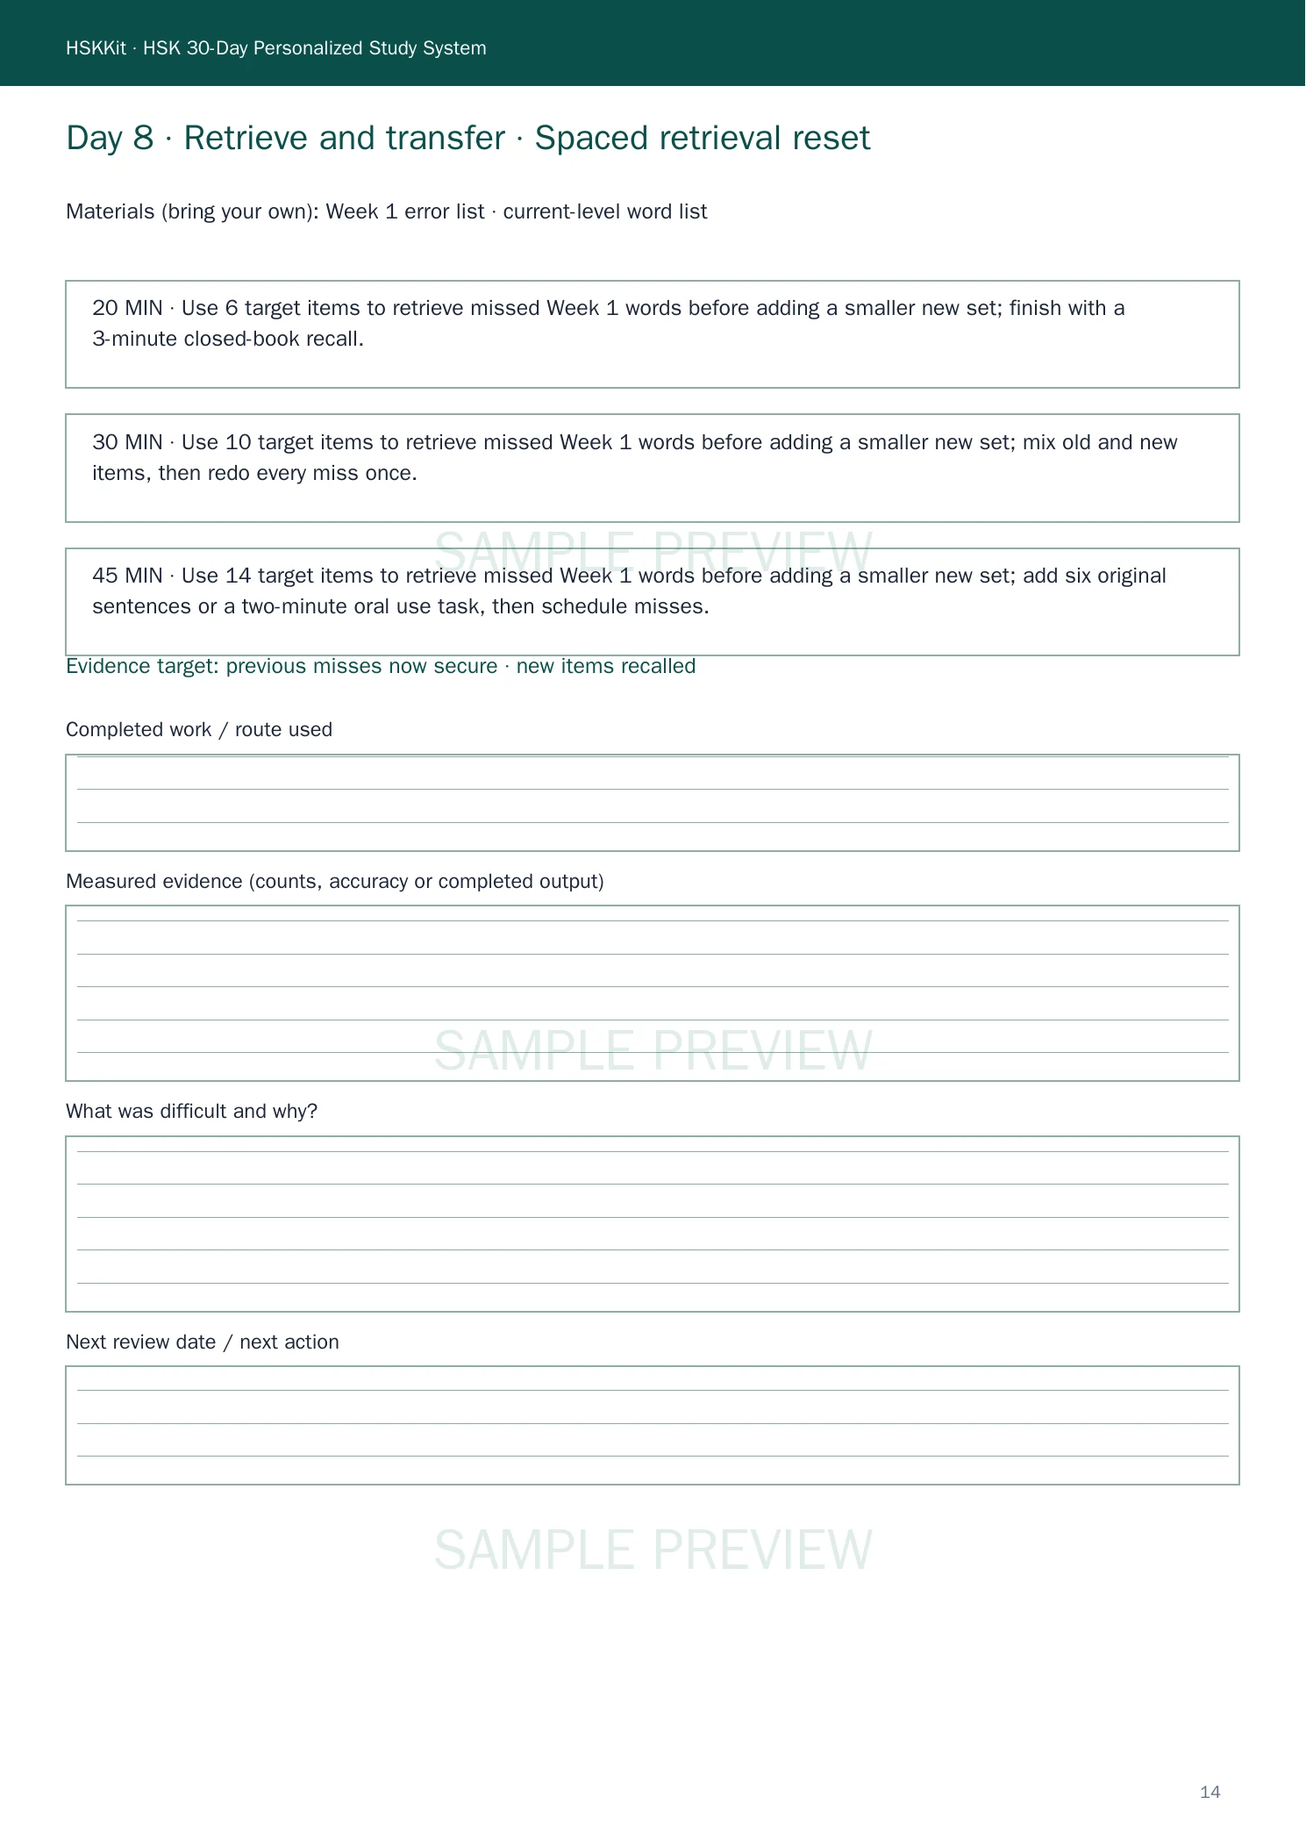
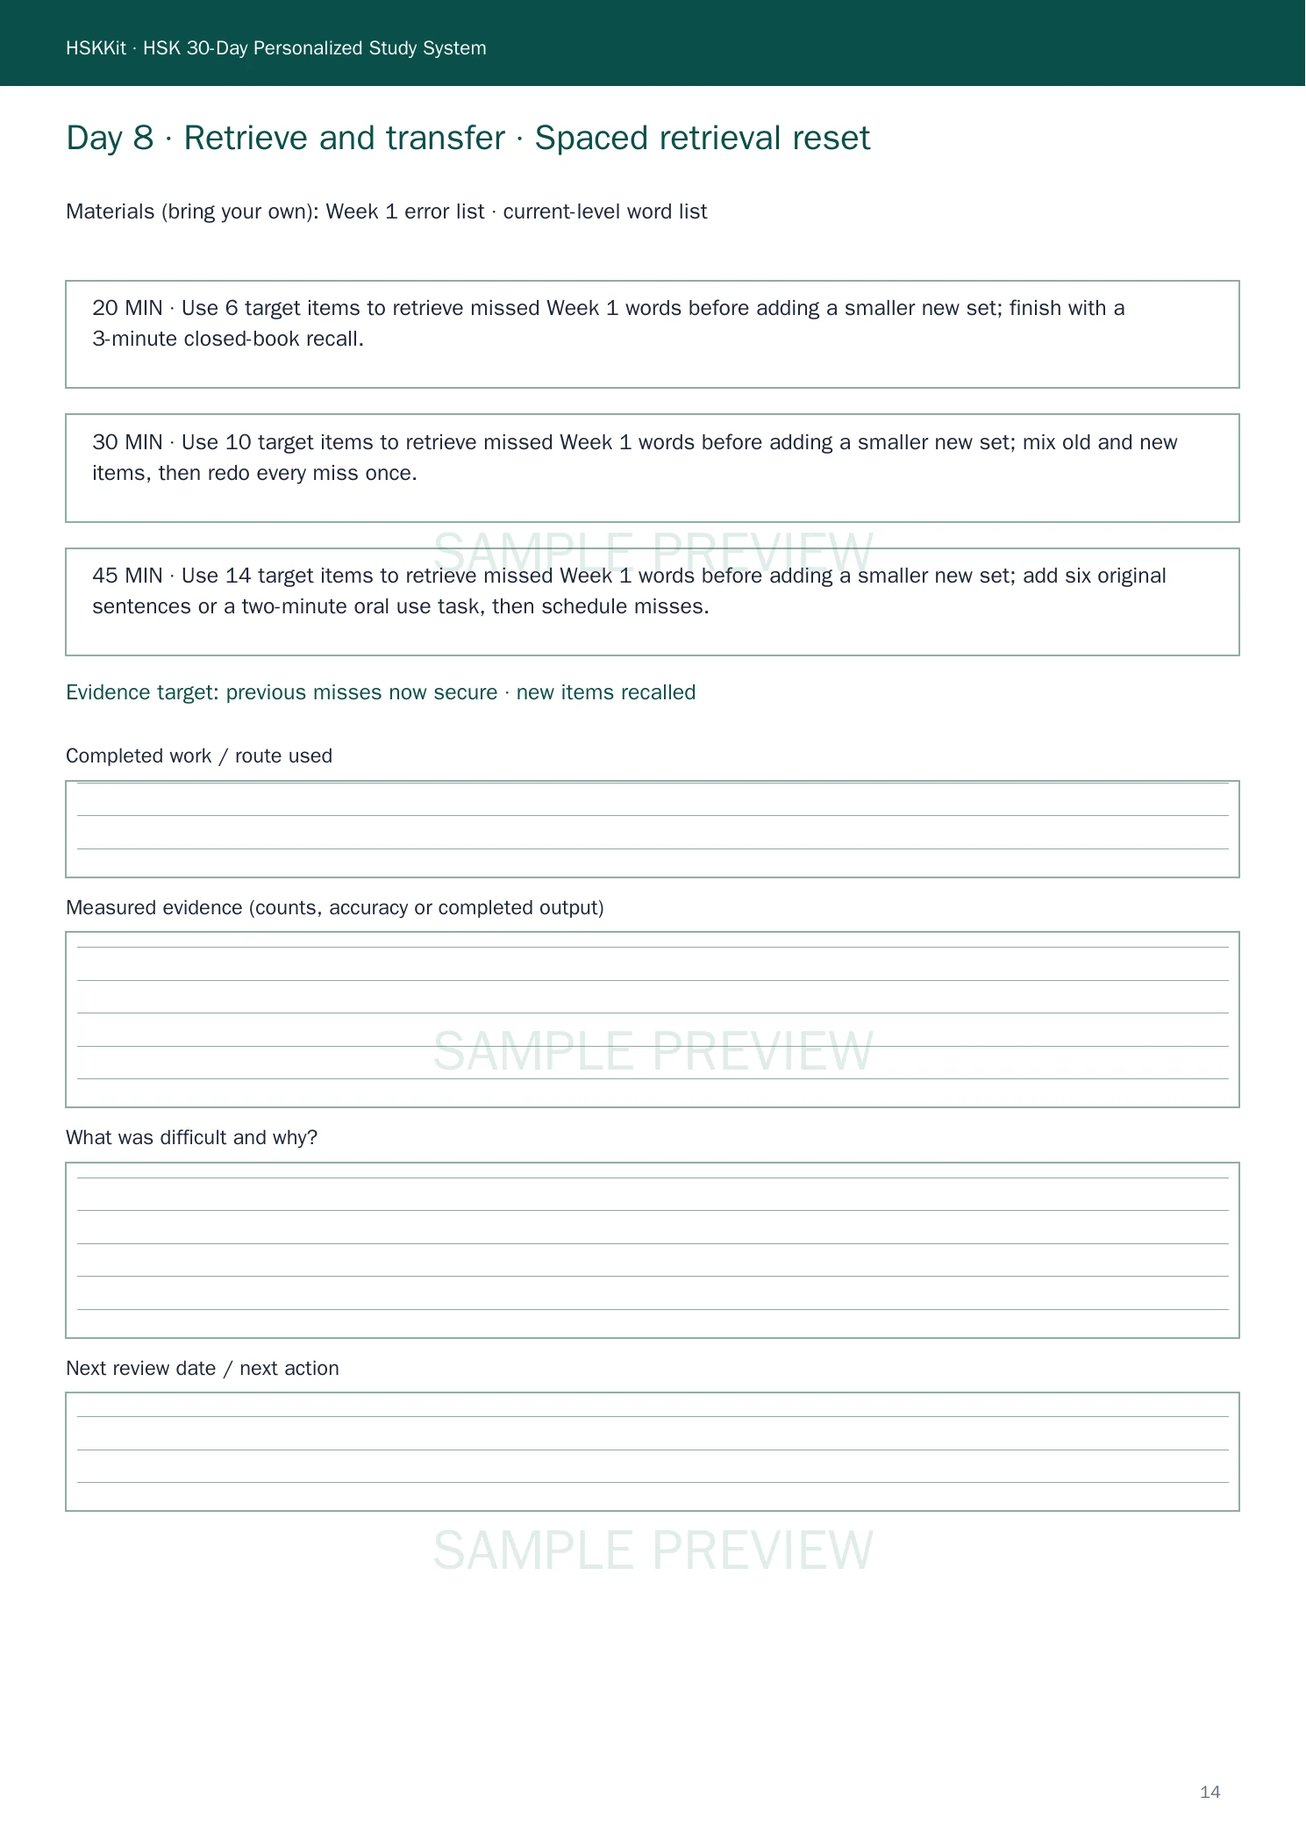
Improve 30-day planner readability and purchase clarity

diff --git a/src/lib/commercial/product-generator.ts b/src/lib/commercial/product-generator.ts
@@ -104,7 +104,7 @@ function productAssets(product:DigitalProduct,selections:Selection[]){
   return [...unique.values()];
 }
 function manifestFor(product:DigitalProduct,files:string[],selections:Selection[],generationVersion:string):ProductArtifactManifest{
-  return {schemaVersion:"hskkit-product-manifest-v1",productId:product.id,generationVersion,standard:"HSK 3.0",standardVersion:"GF0025-2021",officialExam:false,levels:product.id==="practice-assessment-pack"?[1,2,3,4,5,6,7,8,9]:product.levels,advancedBandDisclosure:"HSK 3.0 defines one unified Levels 7–9 advanced ability band; Level 7, 8 and 9 labels in this resource use the same canonical approved advanced source set.",licenseNotice:productLicenseNotice(product.id),files,sourceIndependent:product.id==="30-day-planner"||product.id==="practice-assessment-pack",assets:productAssets(product,selections),...(product.id==="practice-assessment-pack"?{audioProvenance:ASSESSMENT_AUDIO_PROVENANCE}:{})};
+  return {schemaVersion:"hskkit-product-manifest-v1",productId:product.id,generationVersion,standard:"HSK 3.0",standardVersion:"GF0025-2021",officialExam:false,levels:product.id==="practice-assessment-pack"?[1,2,3,4,5,6,7,8,9]:product.levels,advancedBandDisclosure:product.id==="30-day-planner"?"The same 30-day task sequence is used at all levels; the purchaser supplies practice material matched to their current level. This planner includes no source word list or question bank.":"HSK 3.0 defines one unified Levels 7–9 advanced ability band; Level 7, 8 and 9 labels in this resource use the same canonical approved advanced source set.",licenseNotice:productLicenseNotice(product.id),files,sourceIndependent:product.id==="30-day-planner"||product.id==="practice-assessment-pack",assets:productAssets(product,selections),...(product.id==="practice-assessment-pack"?{audioProvenance:ASSESSMENT_AUDIO_PROVENANCE}:{})};
 }
 
 function lines(text:string,font:PDFFont,size:number,width:number){
@@ -131,7 +131,7 @@ async function makePdf(title:string,subtitle:string,sections:PdfSection[],fontBy
   fresh();for(const line of wordLines(title,font,20,contentWidth)){page!.drawText(line,{x:36,y,size:20,font,color:rgb(.04,.31,.29)});y-=27;}y-=5;
   const subtitleSize=plannerQuickStart||trackerPdf?11:assessmentPdf?11:9.5;
   for(const line of wordLines(subtitle,font,subtitleSize,contentWidth)){page!.drawText(line,{x:36,y,size:subtitleSize,font,color:rgb(.25,.3,.38)});y-=plannerQuickStart||trackerPdf?16:assessmentPdf?16:14;}
-  const bandDisclosure=assessmentPdf?"Levels 7–9 are unofficial advanced practice distinctions within the unified HSK 3.0 advanced band; not separate official score bands.":"Advanced-band disclosure: HSK 3.0 defines one unified Levels 7–9 band; Level 7/8/9 labels use the same canonical approved source set.";
+  const bandDisclosure=plannerQuickStart?"Choose practice material for your current HSK level. The same task sequence works across levels; level-specific lessons and audio are not included.":assessmentPdf?"Levels 7–9 are unofficial advanced practice distinctions within the unified HSK 3.0 advanced band; not separate official score bands.":"Advanced-band disclosure: HSK 3.0 defines one unified Levels 7–9 band; Level 7/8/9 labels use the same canonical approved source set.";
   const disclosureSize=plannerQuickStart||trackerPdf?9.5:assessmentPdf?10:8.5;
   for(const line of wordLines(bandDisclosure,font,disclosureSize,contentWidth)){page!.drawText(line,{x:36,y,size:disclosureSize,font,color:rgb(.45,.28,.08)});y-=plannerQuickStart||trackerPdf?14:assessmentPdf?15:12;}y-=plannerQuickStart?20:12;
   if(compact){
@@ -248,9 +248,9 @@ function readme(product:DigitalProduct,files:string[],manifest:ProductArtifactMa
     audio?`Three full Mandarin MP3 listening tracks and 27 matching level-only tracks are included for Forms A, B and C. Playback is once at natural pace with ${audio.responsePauseSeconds}-second response pauses; exact transcripts are included.`:"Audio is not included.",
     audio?`Audio provenance: ${audio.provider}; voices ${Object.entries(audio.voices).map(([form,voice])=>`${form}=${voice}`).join(", ")}; generated ${audio.generatedOn}.`:"",
     audio?`Audio integrity: full-form MP3 SHA-256 hashes are in manifest.json; per-level MP3 hashes and source fingerprint are in Level-Audio/timing-index.json. ${audio.redistributionStatus}`:"",
-    "Levels 7–9 use one unified canonical advanced source set.",
+    product.id==="30-day-planner"?"The same 30-day task sequence is used at every HSK level. Choose your current level and supply level-matched practice material; no word list, questions, audio or answer keys are included.":"Levels 7–9 use one unified canonical advanced source set.",
     `Licence: ${productLicenseNotice(product.id)}`,
-    product.id==="practice-assessment-pack"||product.id==="worksheet-pack"||product.id==="assessment-tracker"?"The 14-day access and three-download allowance apply only to retrieving the ZIP. Downloaded copies do not expire.":""
+    product.id==="practice-assessment-pack"||product.id==="worksheet-pack"||product.id==="assessment-tracker"||product.id==="30-day-planner"?"The 14-day access and three-download allowance apply only to retrieving the ZIP. Downloaded copies do not expire.":""
   ];
   return encoder.encode(lines.filter(Boolean).join("\n"));
 }
@@ -258,6 +258,7 @@ function packageZip(product:DigitalProduct,files:Array<{name:string;data:Uint8Ar
 
 async function makePlannerPdf(plan:PlannerPack,fontBytes:Uint8Array,fillable:boolean){
   const pdf=await PDFDocument.create();pdf.registerFontkit(fontkit);const font=await pdf.embedFont(new Uint8Array(fontBytes),{subset:false});const form=fillable?pdf.getForm():null;
+  const bookmarks:Array<{title:string;page:PDFPage}>=[];
   const width=595.28,height=841.89,dark=rgb(.04,.31,.29),ink=rgb(.11,.15,.22),muted=rgb(.38,.43,.5),lineColor=rgb(.55,.68,.65);let pageNumber=0;
   pdf.setTitle(`HSK 30-Day Planner · ${fillable?"Fillable":"Printable"} A4`);pdf.setAuthor("HSKKit");pdf.setSubject("HSK 30-Day Personalized Study System");
   const fresh=(title:string)=>{const page=pdf.addPage([width,height]);pageNumber+=1;page.drawRectangle({x:0,y:height-39,width,height:39,color:dark});page.drawText("HSKKit · HSK 30-Day Personalized Study System",{x:30,y:height-25,size:9,font,color:rgb(1,1,1)});page.drawText(String(pageNumber),{x:width-48,y:22,size:8,font,color:muted});page.drawText(title,{x:30,y:height-68,size:16,font,color:dark});return page;};
@@ -265,14 +266,14 @@ async function makePlannerPdf(plan:PlannerPack,fontBytes:Uint8Array,fillable:boo
   const response=(page:PDFPage,name:string,label:string,x:number,top:number,fieldWidth:number,fieldHeight:number)=>{page.drawText(label,{x,y:top,size:9.5,font,color:ink});const boxY=top-fieldHeight-8;if(form){const field=form.createTextField(name);field.enableMultiline();field.addToPage(page,{x,y:boxY,width:fieldWidth,height:fieldHeight,borderColor:lineColor,borderWidth:.7,textColor:ink,font});field.setFontSize(10);}else{page.drawRectangle({x,y:boxY,width:fieldWidth,height:fieldHeight,borderColor:lineColor,borderWidth:.7});for(let line=boxY+13;line<boxY+fieldHeight;line+=15)page.drawLine({start:{x:x+5,y:line},end:{x:x+fieldWidth-5,y:line},thickness:.35,color:lineColor});}return boxY-17;};
 
   {
-    const page=fresh("Start here · diagnosis, goal and route");
+    const page=fresh("Start here · diagnosis, goal and route");bookmarks.push({title:"Start here",page});
     let y=742;y=drawWrapped(page,plan.positioning,30,y,11,width-60,dark,15)-8;y=drawWrapped(page,plan.workflow.join(" → "),30,y,8.5,width-60,muted,12)-16;
     const fields=[["planner.setup.currentLevel","Current Level"],["planner.setup.targetLevel","Target Level"],["planner.setup.examDateOrGoal","Exam date or study goal"],["planner.setup.dailyMinutes","Daily available time"],["planner.setup.weakAreas","Initial weak areas"],["planner.setup.route","Selected route: 20 / 30 / 45"],["planner.setup.assessment.vocabulary","Assessment · vocabulary score out of 100"],["planner.setup.assessment.listening","Assessment · listening score out of 100"],["planner.setup.assessment.reading","Assessment · reading score out of 100"],["planner.setup.assessment.writing","Assessment · writing score out of 100"]] as const;
     for(let index=0;index<fields.length;index+=2){const left=fields[index],right=fields[index+1];response(page,left[0],left[1],30,y,250,42);response(page,right[0],right[1],315,y,250,42);y-=88;}
     drawWrapped(page,"Score rule: first-attempt correct / total x 100. Use NOT MEASURED if no keyed source is available; never enter 0 for a missing check. The listening check may require a separate setup session outside Day 1's timer.",30,y+14,10,width-60,ink,15);
   }
   for(const [title,sections] of [["Prepare materials · before you begin",plan.sourcingGuide],["Worked example · Day 1 to first action",plan.workedExample]] as const){
-    const page=fresh(title);let y=738;
+    const page=fresh(title);bookmarks.push({title,page});let y=738;
     for(const section of sections){
       y=drawWrapped(page,section.heading,30,y,12,width-60,dark,18)-5;
       y=drawWrapped(page,section.body,30,y,10.5,width-60,ink,15)-18;
@@ -280,7 +281,7 @@ async function makePlannerPdf(plan:PlannerPack,fontBytes:Uint8Array,fillable:boo
     }
   }
   for(let group=0;group<2;group++){
-    const page=fresh(`Assessment → practice · ${group===0?"vocabulary & listening":"reading & writing"}`);let y=738;
+    const page=fresh(`Assessment → practice · ${group===0?"vocabulary & listening":"reading & writing"}`);bookmarks.push({title:`Assessment mapping ${group+1}`,page});let y=738;
     y=drawWrapped(page,"Use scores out of 100, not raw counts. Find the lowest MEASURED skill and its band. Start with its assignment; recheck using fresh, keyed material on Days 14 and 28.",30,y,11.5,width-60,ink,18)-21;
     const mappings=plan.assessmentMappings.slice(group*6,group*6+6);
     for(const [index,mapping] of mappings.entries()){
@@ -294,7 +295,7 @@ async function makePlannerPdf(plan:PlannerPack,fontBytes:Uint8Array,fillable:boo
     if(y<46)throw new Error(`PLANNER_MAPPING_OVERFLOW_${group}`);
   }
   for(const day of plan.days){
-    const page=fresh(`Day ${day.day} · ${day.phase} · ${day.focus}`);let y=742;
+    const page=fresh(`Day ${day.day} · ${day.phase} · ${day.focus}`);bookmarks.push({title:`Day ${day.day} · ${day.focus}`,page});let y=742;
     y=drawWrapped(page,`Materials (bring your own): ${day.materials.join(" · ")}`,30,y,10,width-60,ink,14)-10;
     for(const minutes of [20,30,45] as const){
       const route=`${minutes} MIN · ${day.routes[minutes].replace(/^\d+ min · /,"")}`;
@@ -303,14 +304,14 @@ async function makePlannerPdf(plan:PlannerPack,fontBytes:Uint8Array,fillable:boo
       page.drawRectangle({x:30,y:y-boxHeight,width:width-60,height:boxHeight-4,borderColor:lineColor,borderWidth:.8});
       y=drawWrapped(page,route,42,y-20,10,width-84,ink,14)-13;
     }
-    y=drawWrapped(page,`Evidence target: ${day.evidence.join(" · ")}`,30,y,10,width-60,dark,14)-15;
+    y=drawWrapped(page,`Evidence target: ${day.evidence.join(" · ")}`,30,y-12,10,width-60,dark,14)-15;
     y=response(page,`planner.day${day.day}.completed`,"Completed work / route used",30,y,width-60,44);
     y=response(page,`planner.day${day.day}.evidence`,"Measured evidence (counts, accuracy or completed output)",30,y,width-60,80);
     y=response(page,`planner.day${day.day}.difficult`,"What was difficult and why?",30,y,width-60,80);
     y=response(page,`planner.day${day.day}.nextReview`,"Next review date / next action",30,y,width-60,54);
     if(y<38)throw new Error(`PLANNER_DAY_OVERFLOW_${day.day}`);
     const review=plan.weeklyReviews.find(item=>item.day===day.day);if(review){
-      const reviewPage=fresh(`Day ${day.day} · Weekly evidence review`);let reviewY=742;
+      const reviewPage=fresh(`Day ${day.day} · Weekly evidence review`);bookmarks.push({title:`Day ${day.day} · Weekly review`,page:reviewPage});let reviewY=742;
       if(day.day===21){
         reviewY=drawWrapped(reviewPage,"Day 21 scoring anchors · score each response 0–2 in each area; total /6 only if all three are measured. Use a model or teacher to verify accuracy; otherwise mark it NOT MEASURED, not zero.",30,reviewY,10.5,width-60,dark,15)-8;
         for(const item of plan.productionRubric)reviewY=drawWrapped(reviewPage,`${item.dimension}: ${item.anchors}`,36,reviewY,10,width-72,ink,14)-4;
@@ -321,13 +322,14 @@ async function makePlannerPdf(plan:PlannerPack,fontBytes:Uint8Array,fillable:boo
     }
   }
   {
-    const page=fresh(plan.recoveryWorksheet.title);let y=742;y=drawWrapped(page,plan.recoveryWorksheet.rule,30,y,9,width-60,dark,13)-18;const fields=["missedDay","reason","unfinished","moveForward","reducedRoute","returnDate"];
+    const page=fresh(plan.recoveryWorksheet.title);bookmarks.push({title:"Missed-day recovery",page});let y=742;y=drawWrapped(page,plan.recoveryWorksheet.rule,30,y,9,width-60,dark,13)-18;const fields=["missedDay","reason","unfinished","moveForward","reducedRoute","returnDate"];
     for(const [index,prompt] of plan.recoveryWorksheet.prompts.entries())y=response(page,`planner.recovery.${fields[index]}`,prompt,30,y,width-60,index===2||index===3?66:42);
   }
   {
-    const page=fresh(plan.finalReview.title);let y=742;y=drawWrapped(page,"Repeat Day 1 with fresh material. Compare measured evidence—not confidence alone—then select one next-stage action.",30,y,9,width-60,dark,13)-16;const fields=["comparison","strongestGain","remainingGap","nextDecision","nextStartDate","firstAssignments"];
+    const page=fresh(plan.finalReview.title);bookmarks.push({title:"Final review and next stage",page});let y=742;y=drawWrapped(page,"Repeat Day 1 with fresh material. Compare measured evidence—not confidence alone—then select one next-stage action.",30,y,9,width-60,dark,13)-16;const fields=["comparison","strongestGain","remainingGap","nextDecision","nextStartDate","firstAssignments"];
     for(const [index,prompt] of plan.finalReview.prompts.entries())y=response(page,`planner.final.${fields[index]}`,prompt,30,y,width-60,index<3?70:46);
   }
+  addWorksheetBookmarks(pdf,bookmarks);
   if(form)form.updateFieldAppearances(font);
   return new Uint8Array(await pdf.save({useObjectStreams:false}));
 }

diff --git a/src/lib/commercial/products.ts b/src/lib/commercial/products.ts
@@ -3,7 +3,7 @@ export const DIGITAL_ACCESS_DAYS=14;
 export const DIGITAL_REFUND_DAYS=7;
 export const DIGITAL_DOWNLOAD_LIMIT=3;
 export const DEFAULT_PRODUCT_GENERATION_VERSION="complete-vocabulary-v1";
-export const PLANNER_GENERATION_VERSION="planner-progress-xlsx-v5";
+export const PLANNER_GENERATION_VERSION="planner-guided-v6";
 export const PLANNER_BUNDLE_GENERATION_VERSION="learner-toolkit-planner-v5";
 export const EXAM_BUNDLE_GENERATION_VERSION="exam-preparation-assessment-v3";
 export const PRACTICE_ASSESSMENT_GENERATION_VERSION="practice-guided-edition-v4";
@@ -12,6 +12,7 @@ export const WORKSHEET_GENERATION_VERSION="worksheet-guided-v17";
 export const PERSONAL_PRODUCT_LICENSE="Personal, non-transferable study and print use only.";
 export const WORKSHEET_PRODUCT_LICENSE="The purchaser may use the downloaded files without a time limit and print student worksheet pages for learners they personally teach. No resale, public upload, shared-drive distribution, transfer, sublicensing or use by another teacher.";
 export const TRACKER_PRODUCT_LICENSE="Personal, non-transferable use: the purchaser may use the downloaded files without a time limit and print blank assessment record pages for learners they personally teach. No resale, public upload, shared-drive distribution, transfer, sublicensing or use by another teacher.";
+export const PLANNER_PRODUCT_LICENSE="The purchaser may use the downloaded files without a time limit and print blank planner record pages for learners they personally teach. No resale, public upload, shared-drive distribution, transfer, sublicensing or use by another teacher.";
 export const PRACTICE_ASSESSMENT_LICENSE="After download, the purchaser may use and print the files without a time limit, including printing answer sheets for students they personally teach.";
 export const TEACHER_CLASSROOM_LICENSE="Single-purchaser classroom licence: the purchaser may adapt editable files and print or share student handouts only with learners they personally teach at one teaching site. No resale, public upload, shared-drive distribution, sublicensing, transfer or use by another teacher.";
 
@@ -51,7 +52,7 @@ export const DIGITAL_PRODUCTS:readonly DigitalProduct[]=[
 ] as const;
 
 export function digitalProduct(value:unknown){return DIGITAL_PRODUCTS.find(product=>product.id===value)??null;}
-export function productLicenseNotice(productId:unknown){return productId==="teacher-lesson-plan-pack"?TEACHER_CLASSROOM_LICENSE:productId==="practice-assessment-pack"?PRACTICE_ASSESSMENT_LICENSE:productId==="worksheet-pack"?WORKSHEET_PRODUCT_LICENSE:productId==="assessment-tracker"?TRACKER_PRODUCT_LICENSE:PERSONAL_PRODUCT_LICENSE;}
+export function productLicenseNotice(productId:unknown){return productId==="teacher-lesson-plan-pack"?TEACHER_CLASSROOM_LICENSE:productId==="practice-assessment-pack"?PRACTICE_ASSESSMENT_LICENSE:productId==="worksheet-pack"?WORKSHEET_PRODUCT_LICENSE:productId==="assessment-tracker"?TRACKER_PRODUCT_LICENSE:productId==="30-day-planner"?PLANNER_PRODUCT_LICENSE:PERSONAL_PRODUCT_LICENSE;}
 export function generationVersionForProduct(productId:unknown){return productId==="assessment-tracker"?"assessment-tracker-v5":productId==="learner-practice-toolkit"?PLANNER_BUNDLE_GENERATION_VERSION:productId==="exam-preparation-bundle"?EXAM_BUNDLE_GENERATION_VERSION:productId==="worksheet-pack"?WORKSHEET_GENERATION_VERSION:productId==="30-day-planner"?PLANNER_GENERATION_VERSION:productId==="practice-assessment-pack"?PRACTICE_ASSESSMENT_GENERATION_VERSION:productId==="teacher-lesson-plan-pack"?TEACHER_PACK_GENERATION_VERSION:DEFAULT_PRODUCT_GENERATION_VERSION;}
 export function productDeliverableLabels(productId:unknown):string[]{
   const product=digitalProduct(productId);if(!product)throw new Error("INVALID_PRODUCT");

diff --git a/src/app/store/[productId]/resource-product-detail.tsx b/src/app/store/[productId]/resource-product-detail.tsx
@@ -13,6 +13,7 @@ export default function ResourceProductDetail({product}: {product:StoreProductDe
         <p className="mt-5 max-w-xl text-xl font-semibold leading-8 text-slate-800">{product.promise}</p>
         <p className="mt-4 max-w-xl text-base leading-7 text-slate-600">{product.summary}</p>
         <ul className="mt-6 space-y-3 text-sm leading-6 text-slate-700">{product.outcomes.map(item=><li key={item} className="flex gap-3"><span aria-hidden="true" className="font-extrabold text-emerald-700">✓</span><span>{item}</span></li>)}</ul>
+        {product.id==="30-day-planner"&&<aside aria-label="What to prepare" className="mt-6 max-w-xl rounded-2xl border border-amber-200 bg-amber-50 p-5 text-sm leading-6 text-amber-950"><p className="font-extrabold">Before you buy · bring your own practice materials</p><p className="mt-2">This is a guided 30-day plan, not a course or question bank. You need a word list, reading questions with answers, audio with transcripts, and writing prompts with a model answer or teacher feedback matched to your current HSK level. The same task sequence is used across levels; the plan helps you choose a route and track evidence.</p></aside>}
         <div className="mt-8 max-w-xl"><ResourceProductCheckout productId={product.id} name={product.name} amountCents={product.amountCents}/></div>
       </div>
       <div aria-label="Real product preview">
